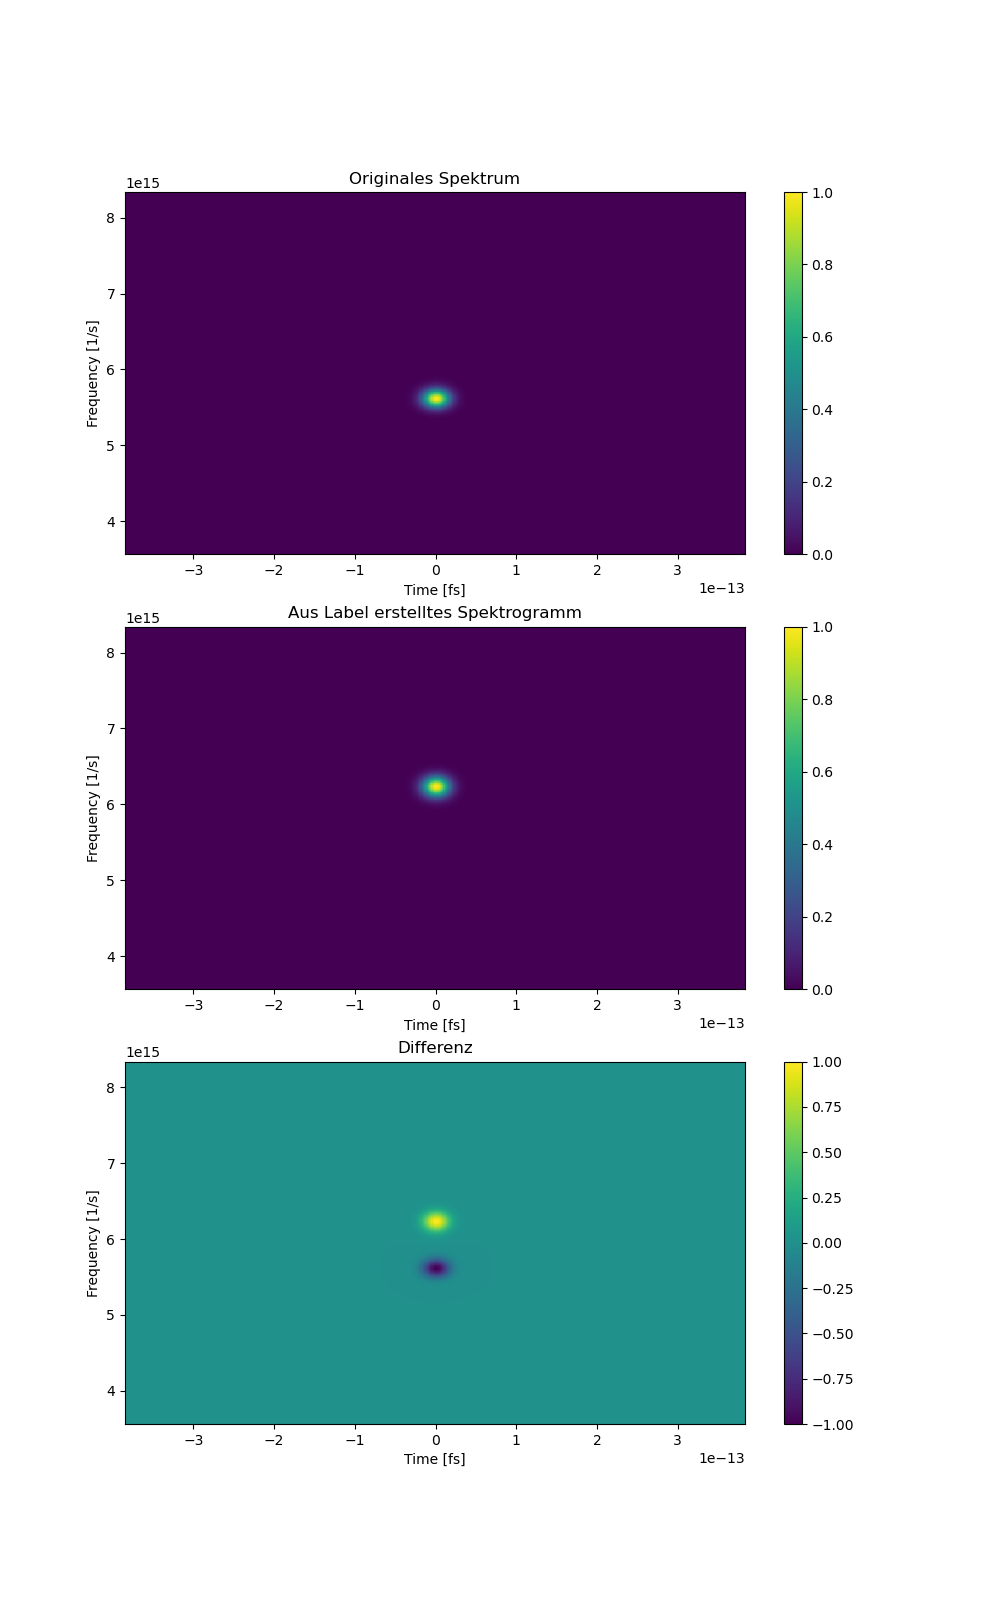
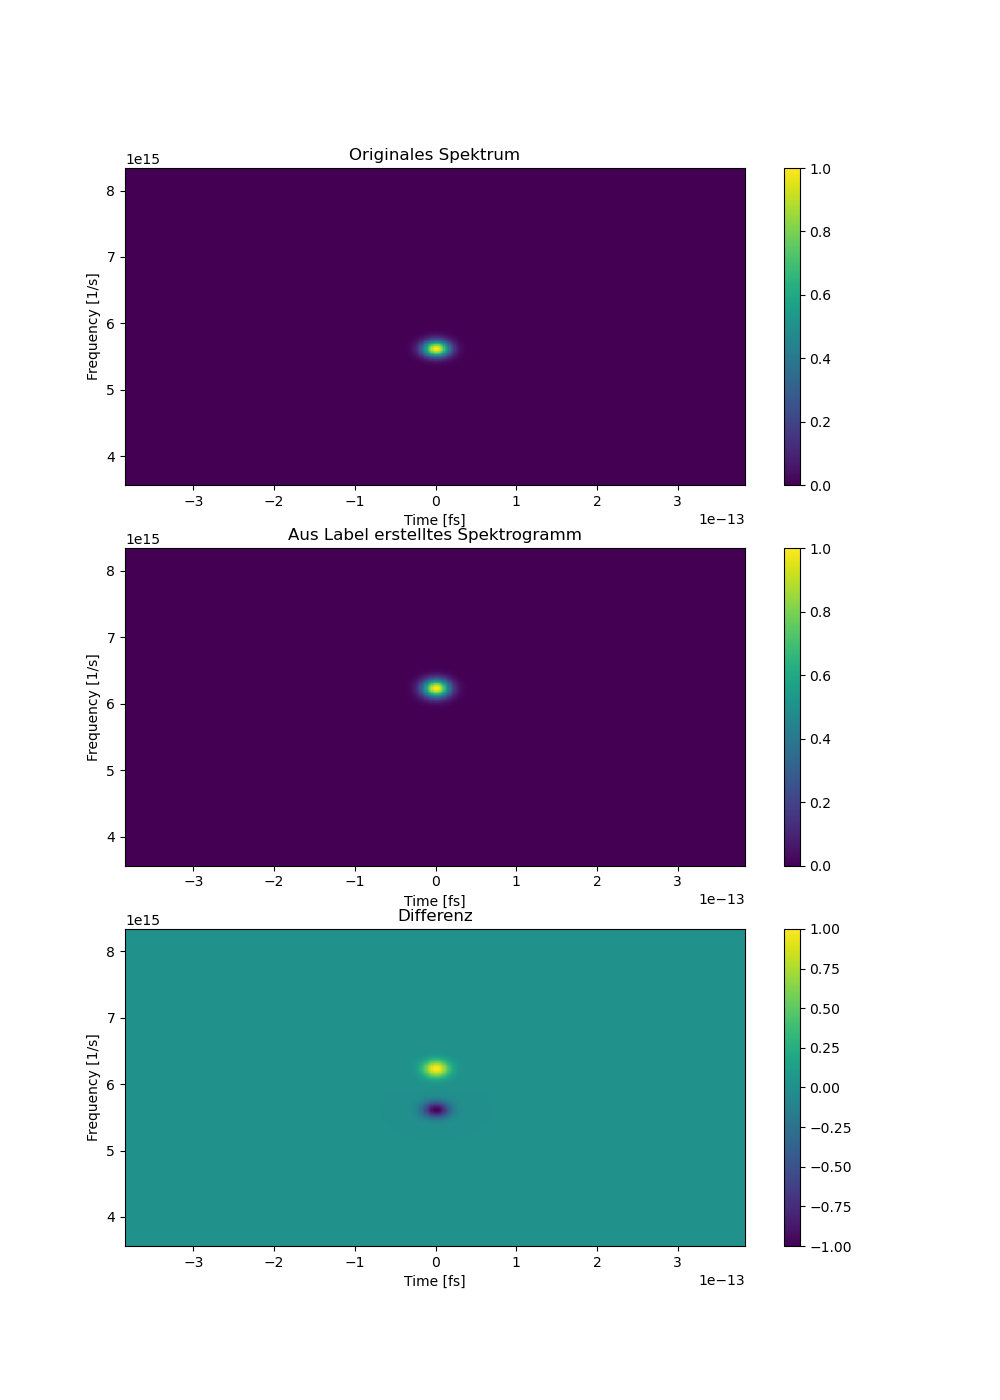
fixing writing losses to file

diff --git a/training.py b/training.py
@@ -302,15 +302,15 @@ for epoch in range(config.NUM_EPOCHS):     # iterate over epochs
         logger.info(f"New learning rate: {new_lr}")
 # save learning rate and losses to files
 # Save the list to a CSV file
-with open(config.learning_rate_filepath, 'w', newline='') as f:
-    writer = csv.writer(f)
-    writer.writerows(learning_rates)  # Write rows of the list to the file
-with open(config.training_loss_filepath, 'w', newline='') as f:
-    writer = csv.writer(f)
-    writer.writerows(training_losses)  # Write rows of the list to the file
-with open(config.validation_loss_filepath, 'w', newline='') as f:
-    writer = csv.writer(f)
-    writer.writerows(validation_losses)  # Write rows of the list to the file
+with open(config.learning_rate_filepath, 'w', newline='') as file:
+    for item in learning_rates:
+        file.write(f"{item}\n")
+with open(config.training_loss_filepath, 'w', newline='') as file:
+    for item in training_losses:
+        file.write(f"{item}\n")
+with open(config.validation_loss_filepath, 'w', newline='') as file:
+    for item in validation_losses:
+        file.write(f"{item}\n")
 
 
 # plot training loss

diff --git a/modules/config.py b/modules/config.py
@@ -10,7 +10,7 @@ import torch
 
 # Training Options
 
-NUM_EPOCHS = 50     # Number of epochs to train the model
+NUM_EPOCHS = 1     # Number of epochs to train the model
 DESCRIPTOR = f"Testing training using hilbert transform for imaginary part - with {NUM_EPOCHS} Epochs"
 OUTPUT_SIZE = 256   # Amount of samples used for the reconstructed pulse [model output size should be 2*OUTPUT_SIZE]
 BATCH_SIZE = 10     # Amount of spectrograms trained at each step
@@ -19,7 +19,8 @@ LEARNING_RATE = 1e-7    # Learning rate at the beginning of training
 WEIGHT_DECAY = 1e-5
 GAMMA_SCHEDULER = 0.9   # Learning rate de-/increases by this factor after each epoch
 TRAINING_LOG_STEP_SIZE = BATCH_SIZE
-TBDRMS_THRESHOLD = 1.5  # Only data with a TBDrms higher than this threshold is used for training
+TBDRMS_THRESHOLD = 0.3  # Only data with a TBDrms higher than this threshold is used for training
+# TBDRMS_THRESHOLD = 1.5  # Only data with a TBDrms higher than this threshold is used for training
 
 PENALTY_FACTOR = 1
 PENALTY_THRESHOLD = 1

diff --git a/test/test.py b/test/test.py
@@ -95,7 +95,7 @@ frog_error = loss.calcFrogError(original_spectrogram, spec)
 print(max(sim_output_time.numpy() - spec_output_time.numpy()))
 print(max(sim_output_freq.numpy() - spec_output_freq.numpy()))
 # Plot
-fig, axs = plt.subplots(3, figsize=(10,16))
+fig, axs = plt.subplots(3, figsize=(10,14))
 # Simuliertes Spektrogram (original)
 ax = axs[0]
 cax0 = ax.pcolormesh(sim_output_time.numpy(), sim_output_freq.numpy(), original_spectrogram.numpy().T, shading='auto')
@@ -124,5 +124,5 @@ fig.colorbar(cax2, ax=ax)
 
 # Zeige die Plots an
 plt.savefig("comparison_spectrograms.png")
-plt.close()
-# plt.show()
+plt.show()
+# plt.close()
